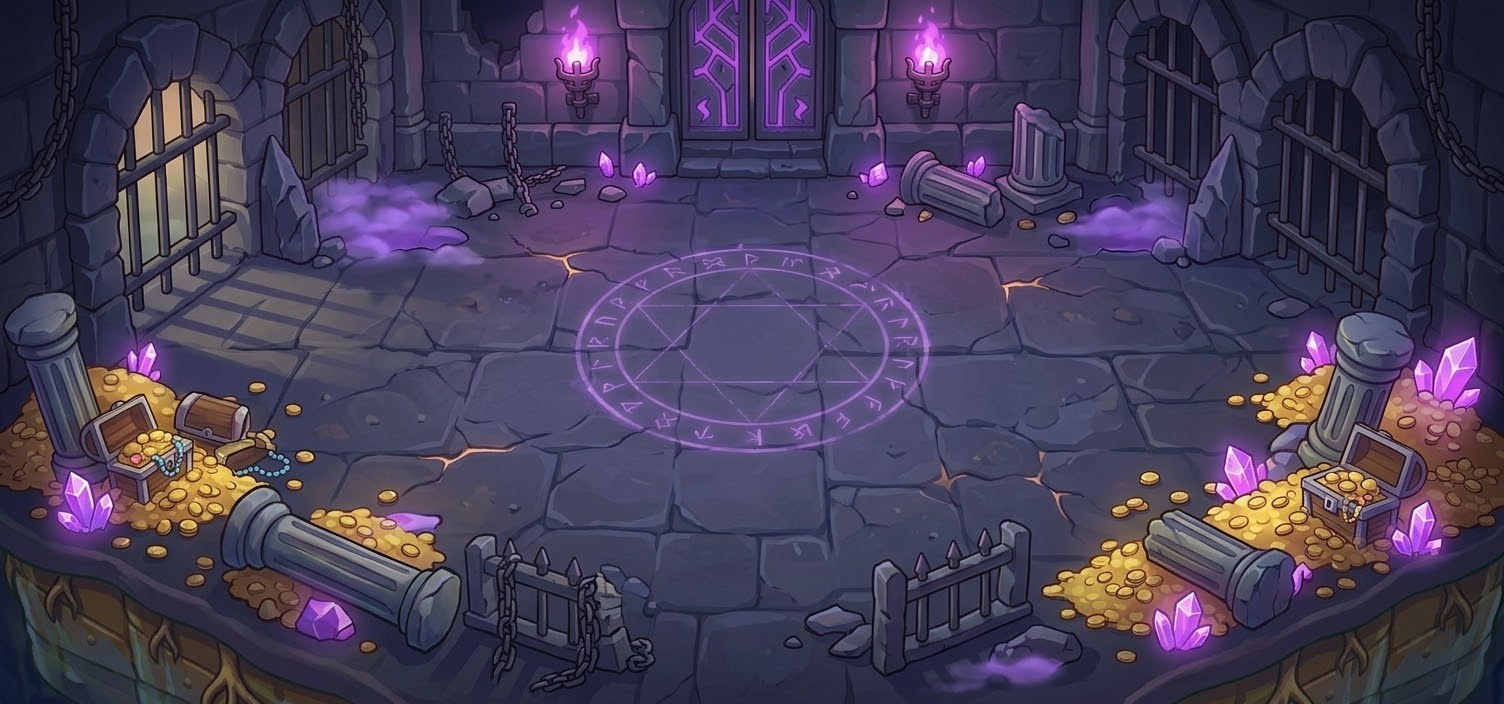
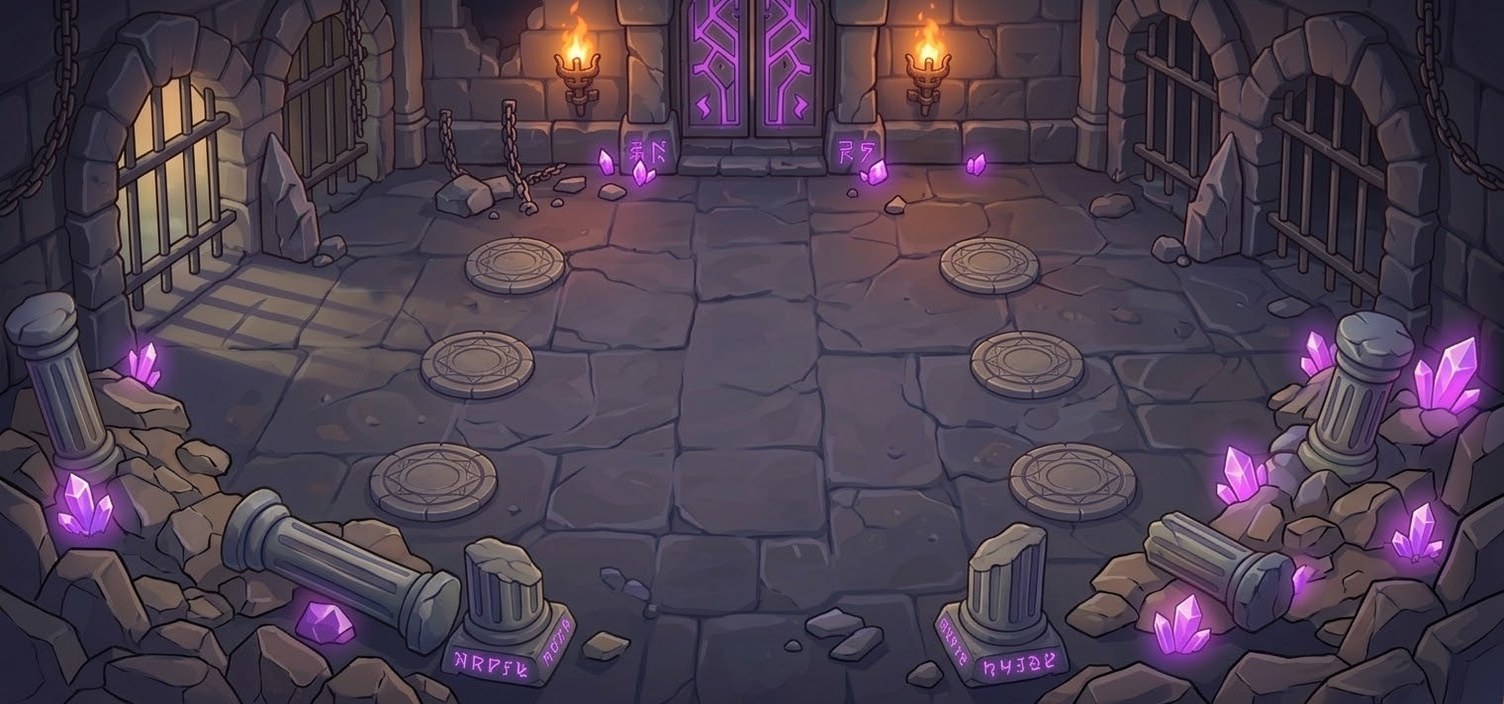
v10.0: 10 cenários de batalha novos no estilo da cidade

diff --git a/dev/combate.html b/dev/combate.html
@@ -3227,7 +3227,7 @@ const THEMES = {
 };
 THEMES.bglobal = THEMES.templo; THEMES.weekly = THEMES.templo; // fundos pintados próprios (bg/bglobal.jpg, bg/weekly.jpg)
 // Cenários pintados (arte final): quando a imagem existe, substitui o cenário desenhado em código
-const BG_IMGS = Object.fromEntries(['praia','bosque','caverna','vulcao','pico','usina','pantano','templo','dungeon','arena','bglobal','weekly'].map(k=>{ const im = new Image(); im.onload = ()=>{ bg = null; refreshArt(); }; im.src = `bg/${k}.jpg?v=92`; return [k, im]; }));
+const BG_IMGS = Object.fromEntries(['praia','bosque','caverna','vulcao','pico','usina','pantano','templo','dungeon','arena','bglobal','weekly'].map(k=>{ const im = new Image(); im.onload = ()=>{ bg = null; refreshArt(); }; im.src = `bg/${k}.jpg?v=93`; return [k, im]; }));
 function drawBg(){
   const stg = B && STAGES[B.stage], tk = stg ? (stg.theme || REGIONS.find(r=>r.id===stg.region).theme) : 'praia', T = THEMES[tk];
   const c = document.createElement('canvas'); c.width=W*K; c.height=H*K;

diff --git a/site/index.html b/site/index.html
@@ -3227,7 +3227,7 @@ const THEMES = {
 };
 THEMES.bglobal = THEMES.templo; THEMES.weekly = THEMES.templo; // fundos pintados próprios (bg/bglobal.jpg, bg/weekly.jpg)
 // Cenários pintados (arte final): quando a imagem existe, substitui o cenário desenhado em código
-const BG_IMGS = Object.fromEntries(['praia','bosque','caverna','vulcao','pico','usina','pantano','templo','dungeon','arena','bglobal','weekly'].map(k=>{ const im = new Image(); im.onload = ()=>{ bg = null; refreshArt(); }; im.src = `bg/${k}.jpg?v=92`; return [k, im]; }));
+const BG_IMGS = Object.fromEntries(['praia','bosque','caverna','vulcao','pico','usina','pantano','templo','dungeon','arena','bglobal','weekly'].map(k=>{ const im = new Image(); im.onload = ()=>{ bg = null; refreshArt(); }; im.src = `bg/${k}.jpg?v=93`; return [k, im]; }));
 function drawBg(){
   const stg = B && STAGES[B.stage], tk = stg ? (stg.theme || REGIONS.find(r=>r.id===stg.region).theme) : 'praia', T = THEMES[tk];
   const c = document.createElement('canvas'); c.width=W*K; c.height=H*K;

diff --git a/dev/PASSAGEM_DE_BASTAO.md b/dev/PASSAGEM_DE_BASTAO.md
@@ -403,3 +403,4 @@ A Beatriz pediu: **toda atualização nova vai para o link dos amigos**. Depois 
 - 09/10 11h15 — v9.8 TODOS os monstros (560) e chefes (53) em pixel art: px/<chave>.webp (tools/pixelar_todos.py, ~12 s). PIXEL.has = números e b:. Se px falhar, cai na arte pintada (pxLoad). Montarias e poses de costas seguem pintadas. Artifact não leva px/ (613 arquivos) → lá aparece a arte pintada.
 - 09/10 11h25 — PENDENTE: novos cenários de batalha (bg/*.jpg) no estilo da cidade. Prompts prontos em /home/claude/gen/bgnew/prompts.json (praia..arena). Bloqueado: navegador do PC (Gemini) desconectado.
 - 09/10 12h55 — v9.9: pixel art só nas cenas (PX_SCENE em render()/renderCity(); PXIMG separado); menus voltam a arte pintada. Novos fundos de batalha (Gemini via Chrome) praia e bosque em bg/ (antigos em /home/claude/gen/bgold). Faltam caverna, vulcao, pico, usina, pantano, templo, dungeon, arena (prompts em /home/claude/gen/bgnew/prompts.json). Transporte de imagem: Chrome hidden congela a aba → clicar + AudioContext mudo destrava; imagem vai p/ artifact 'Recebedor de Arte' (6wthfTkT3MXWPV3Cq781QN, capability assets) e leio com Artifact read path=<id>.
+- 09/10 13h10 — v10.0: os 10 fundos de batalha novos instalados (bg/*.jpg, ?v=93). Originais em /home/claude/gen/bgold.
